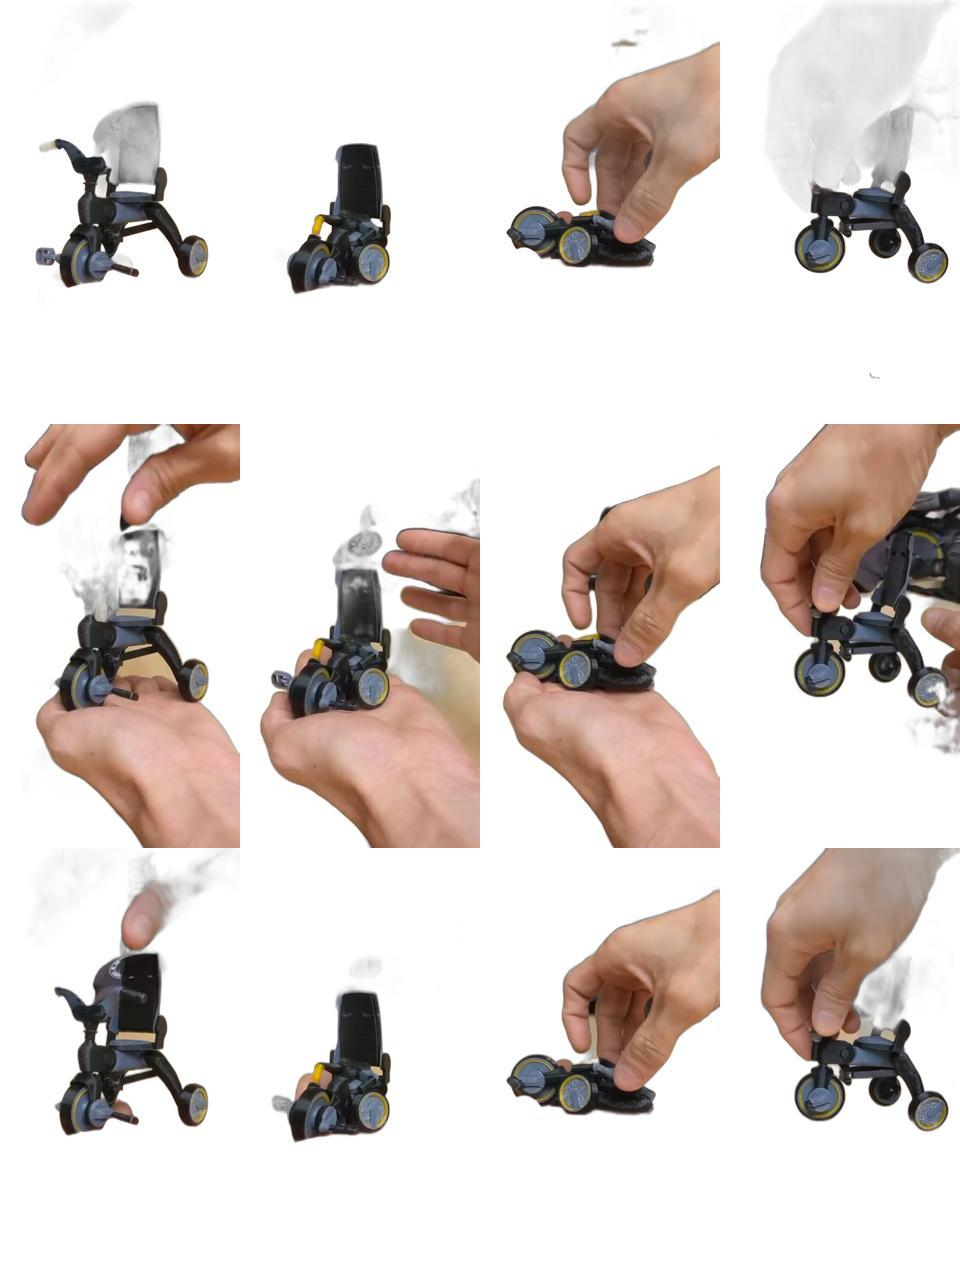
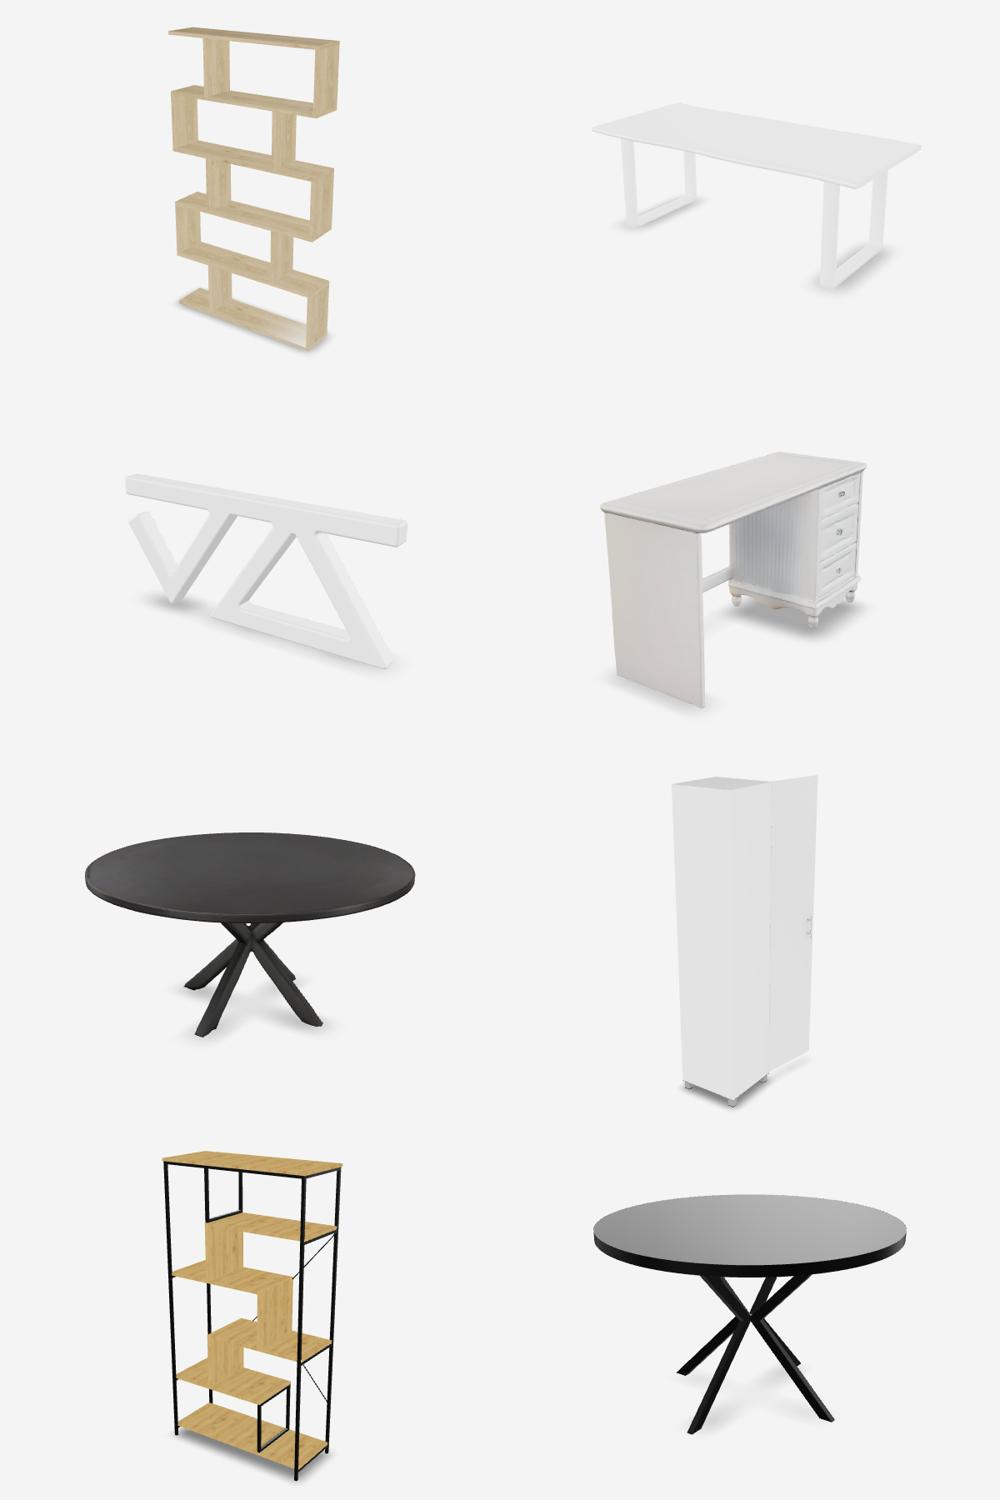
Skills: add Web 3D & AR

diff --git a/index.html b/index.html
@@ -19,7 +19,7 @@
   <link rel="preconnect" href="https://fonts.googleapis.com">
   <link rel="preconnect" href="https://fonts.gstatic.com" crossorigin>
   <link rel="stylesheet" href="https://fonts.googleapis.com/css2?family=Inter+Tight:wght@400;500;700;800&display=swap">
-  <link rel="stylesheet" href="assets/css/style.css?v=20261013c">
+  <link rel="stylesheet" href="assets/css/style.css?v=20261013d">
   <script type="application/ld+json">{"@context": "https://schema.org", "@type": "Person", "name": "Jonathan Zvi Shmuely", "alternateName": "Jon Zvi", "jobTitle": "Industrial Designer", "url": "https://jonzvi.com/", "email": "mailto:jonzvis@gmail.com", "address": {"@type": "PostalAddress", "addressLocality": "Tel-Aviv", "addressCountry": "IL"}, "alumniOf": "Shenkar College of Engineering and Design", "sameAs": ["https://www.linkedin.com/in/jonzvi/", "https://www.instagram.com/shmuely/"]}</script>
 </head>
 <body>
@@ -54,6 +54,7 @@
         <div><h3>3D Modeling</h3><p>SolidWorks, Onshape, Rhino &amp; Blender</p></div>
         <div><h3>Prototyping</h3><p>Mechanism development, 3D printing, model building &amp; woodwork</p></div>
         <div><h3>3D Renders</h3><p>KeyShot, Blender &amp; Photoshop, sped up with Python scripts and AI tools via MCP</p></div>
+        <div><h3>Web 3D &amp; AR</h3><p>Optimized 3D models and AR product viewers for the web</p></div>
       </div>
     </section>
 

diff --git a/assets/css/style.css b/assets/css/style.css
@@ -47,7 +47,7 @@ ul,ol{list-style:none}
 
 /* skills */
 .skills{padding-top:72px}
-.skills-grid{display:grid;grid-template-columns:repeat(3,1fr);gap:40px;margin-top:20px;padding-top:20px;border-top:1px solid var(--line)}
+.skills-grid{display:grid;grid-template-columns:repeat(4,1fr);gap:40px;margin-top:20px;padding-top:20px;border-top:1px solid var(--line)}
 .skills h3{font-size:22px;letter-spacing:-.02em;font-weight:700;margin-bottom:6px}
 .skills p{color:var(--text)}
 
@@ -175,6 +175,7 @@ ul,ol{list-style:none}
 
 /* responsive */
 @media (max-width:900px){
+  .skills-grid{grid-template-columns:repeat(2,1fr)}
   .work-row{grid-template-columns:40px 1fr 60px 140px}
   .work-row .sub{display:none}
 }

diff --git a/404.html b/404.html
@@ -18,7 +18,7 @@
   <link rel="preconnect" href="https://fonts.googleapis.com">
   <link rel="preconnect" href="https://fonts.gstatic.com" crossorigin>
   <link rel="stylesheet" href="https://fonts.googleapis.com/css2?family=Inter+Tight:wght@400;500;700;800&display=swap">
-  <link rel="stylesheet" href="/assets/css/style.css?v=20261013c">
+  <link rel="stylesheet" href="/assets/css/style.css?v=20261013d">
   <script>
     (function () {
       var map = {"/v%C3%A9lspresso": "/velspresso/", "/copy-of-go-pole": "/f-u-c-d/", "/copy-of-f-u-c-d": "/near-future-ikeaish/", "/vélspresso": "/velspresso/"};

diff --git a/a-o-k/index.html b/a-o-k/index.html
@@ -19,7 +19,7 @@
   <link rel="preconnect" href="https://fonts.googleapis.com">
   <link rel="preconnect" href="https://fonts.gstatic.com" crossorigin>
   <link rel="stylesheet" href="https://fonts.googleapis.com/css2?family=Inter+Tight:wght@400;500;700;800&display=swap">
-  <link rel="stylesheet" href="../assets/css/style.css?v=20261013c">
+  <link rel="stylesheet" href="../assets/css/style.css?v=20261013d">
 </head>
 <body>
   <a class="skip-link" href="#main">Skip to Main Content</a>

diff --git a/ceramics/index.html b/ceramics/index.html
@@ -19,7 +19,7 @@
   <link rel="preconnect" href="https://fonts.googleapis.com">
   <link rel="preconnect" href="https://fonts.gstatic.com" crossorigin>
   <link rel="stylesheet" href="https://fonts.googleapis.com/css2?family=Inter+Tight:wght@400;500;700;800&display=swap">
-  <link rel="stylesheet" href="../assets/css/style.css?v=20261013c">
+  <link rel="stylesheet" href="../assets/css/style.css?v=20261013d">
 </head>
 <body>
   <a class="skip-link" href="#main">Skip to Main Content</a>

diff --git a/f-u-c-d/index.html b/f-u-c-d/index.html
@@ -19,7 +19,7 @@
   <link rel="preconnect" href="https://fonts.googleapis.com">
   <link rel="preconnect" href="https://fonts.gstatic.com" crossorigin>
   <link rel="stylesheet" href="https://fonts.googleapis.com/css2?family=Inter+Tight:wght@400;500;700;800&display=swap">
-  <link rel="stylesheet" href="../assets/css/style.css?v=20261013c">
+  <link rel="stylesheet" href="../assets/css/style.css?v=20261013d">
 </head>
 <body>
   <a class="skip-link" href="#main">Skip to Main Content</a>

diff --git a/ffu/index.html b/ffu/index.html
@@ -19,7 +19,7 @@
   <link rel="preconnect" href="https://fonts.googleapis.com">
   <link rel="preconnect" href="https://fonts.gstatic.com" crossorigin>
   <link rel="stylesheet" href="https://fonts.googleapis.com/css2?family=Inter+Tight:wght@400;500;700;800&display=swap">
-  <link rel="stylesheet" href="../assets/css/style.css?v=20261013c">
+  <link rel="stylesheet" href="../assets/css/style.css?v=20261013d">
 </head>
 <body>
   <a class="skip-link" href="#main">Skip to Main Content</a>

diff --git a/foglie-d-autunno/index.html b/foglie-d-autunno/index.html
@@ -19,7 +19,7 @@
   <link rel="preconnect" href="https://fonts.googleapis.com">
   <link rel="preconnect" href="https://fonts.gstatic.com" crossorigin>
   <link rel="stylesheet" href="https://fonts.googleapis.com/css2?family=Inter+Tight:wght@400;500;700;800&display=swap">
-  <link rel="stylesheet" href="../assets/css/style.css?v=20261013c">
+  <link rel="stylesheet" href="../assets/css/style.css?v=20261013d">
 </head>
 <body>
   <a class="skip-link" href="#main">Skip to Main Content</a>

diff --git a/game-deck/index.html b/game-deck/index.html
@@ -19,7 +19,7 @@
   <link rel="preconnect" href="https://fonts.googleapis.com">
   <link rel="preconnect" href="https://fonts.gstatic.com" crossorigin>
   <link rel="stylesheet" href="https://fonts.googleapis.com/css2?family=Inter+Tight:wght@400;500;700;800&display=swap">
-  <link rel="stylesheet" href="../assets/css/style.css?v=20261013c">
+  <link rel="stylesheet" href="../assets/css/style.css?v=20261013d">
 </head>
 <body>
   <a class="skip-link" href="#main">Skip to Main Content</a>

diff --git a/go-pole/index.html b/go-pole/index.html
@@ -19,7 +19,7 @@
   <link rel="preconnect" href="https://fonts.googleapis.com">
   <link rel="preconnect" href="https://fonts.gstatic.com" crossorigin>
   <link rel="stylesheet" href="https://fonts.googleapis.com/css2?family=Inter+Tight:wght@400;500;700;800&display=swap">
-  <link rel="stylesheet" href="../assets/css/style.css?v=20261013c">
+  <link rel="stylesheet" href="../assets/css/style.css?v=20261013d">
 </head>
 <body>
   <a class="skip-link" href="#main">Skip to Main Content</a>

diff --git a/near-future-ikeaish/index.html b/near-future-ikeaish/index.html
@@ -19,7 +19,7 @@
   <link rel="preconnect" href="https://fonts.googleapis.com">
   <link rel="preconnect" href="https://fonts.gstatic.com" crossorigin>
   <link rel="stylesheet" href="https://fonts.googleapis.com/css2?family=Inter+Tight:wght@400;500;700;800&display=swap">
-  <link rel="stylesheet" href="../assets/css/style.css?v=20261013c">
+  <link rel="stylesheet" href="../assets/css/style.css?v=20261013d">
 </head>
 <body>
   <a class="skip-link" href="#main">Skip to Main Content</a>

diff --git a/padpack/index.html b/padpack/index.html
@@ -19,7 +19,7 @@
   <link rel="preconnect" href="https://fonts.googleapis.com">
   <link rel="preconnect" href="https://fonts.gstatic.com" crossorigin>
   <link rel="stylesheet" href="https://fonts.googleapis.com/css2?family=Inter+Tight:wght@400;500;700;800&display=swap">
-  <link rel="stylesheet" href="../assets/css/style.css?v=20261013c">
+  <link rel="stylesheet" href="../assets/css/style.css?v=20261013d">
 </head>
 <body>
   <a class="skip-link" href="#main">Skip to Main Content</a>
